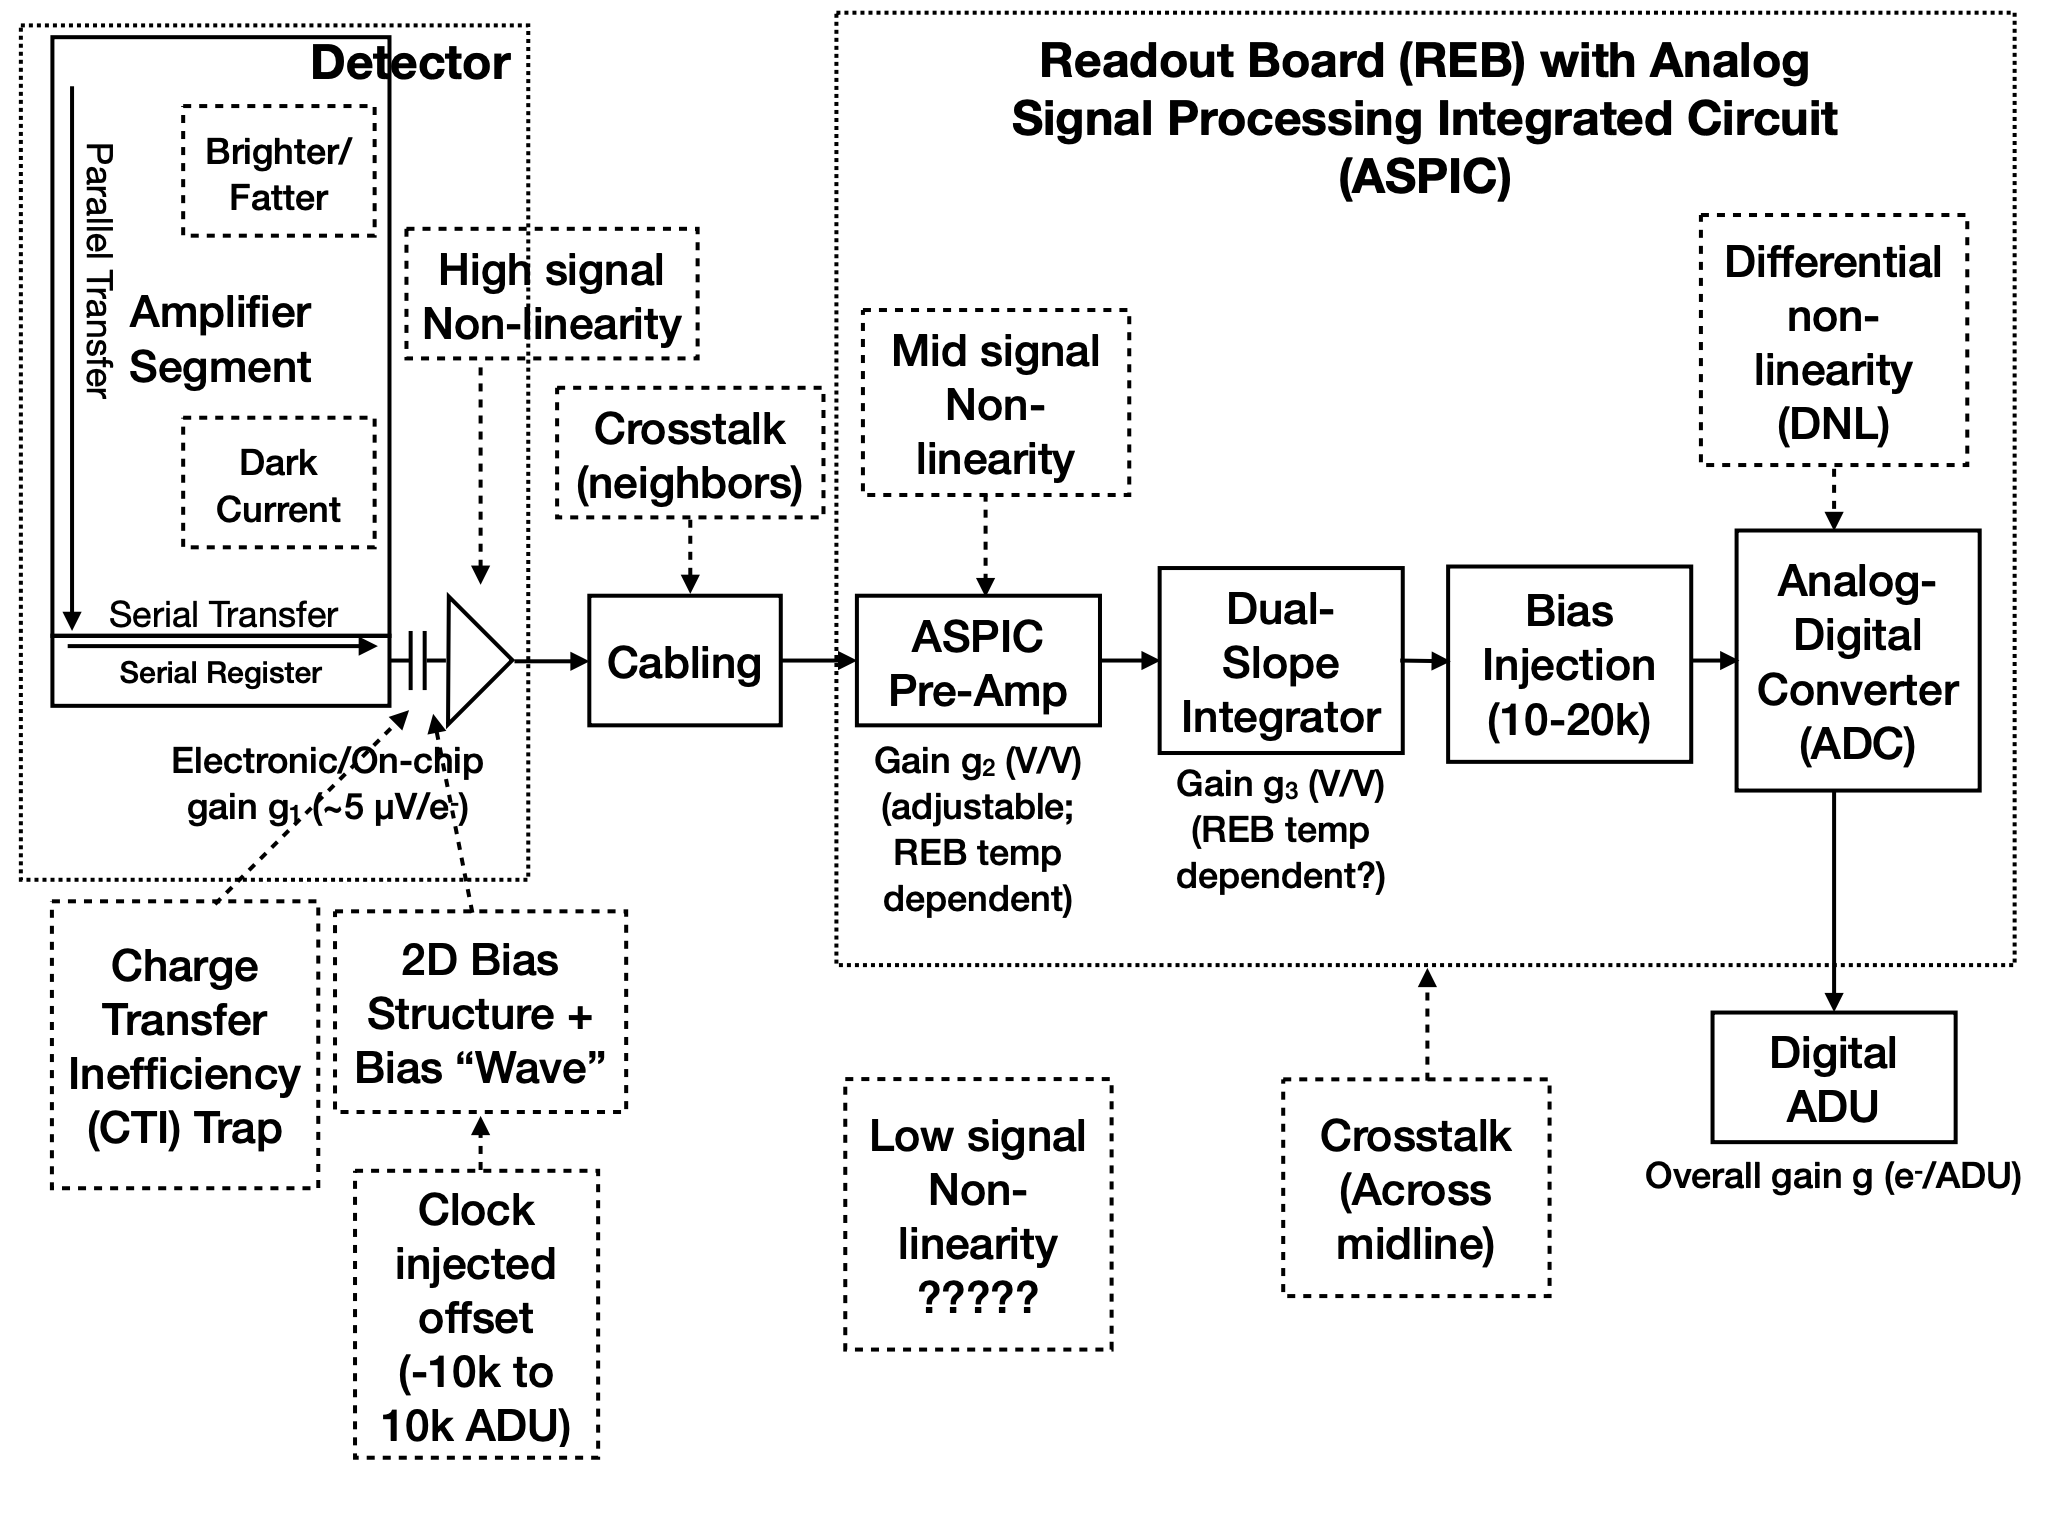
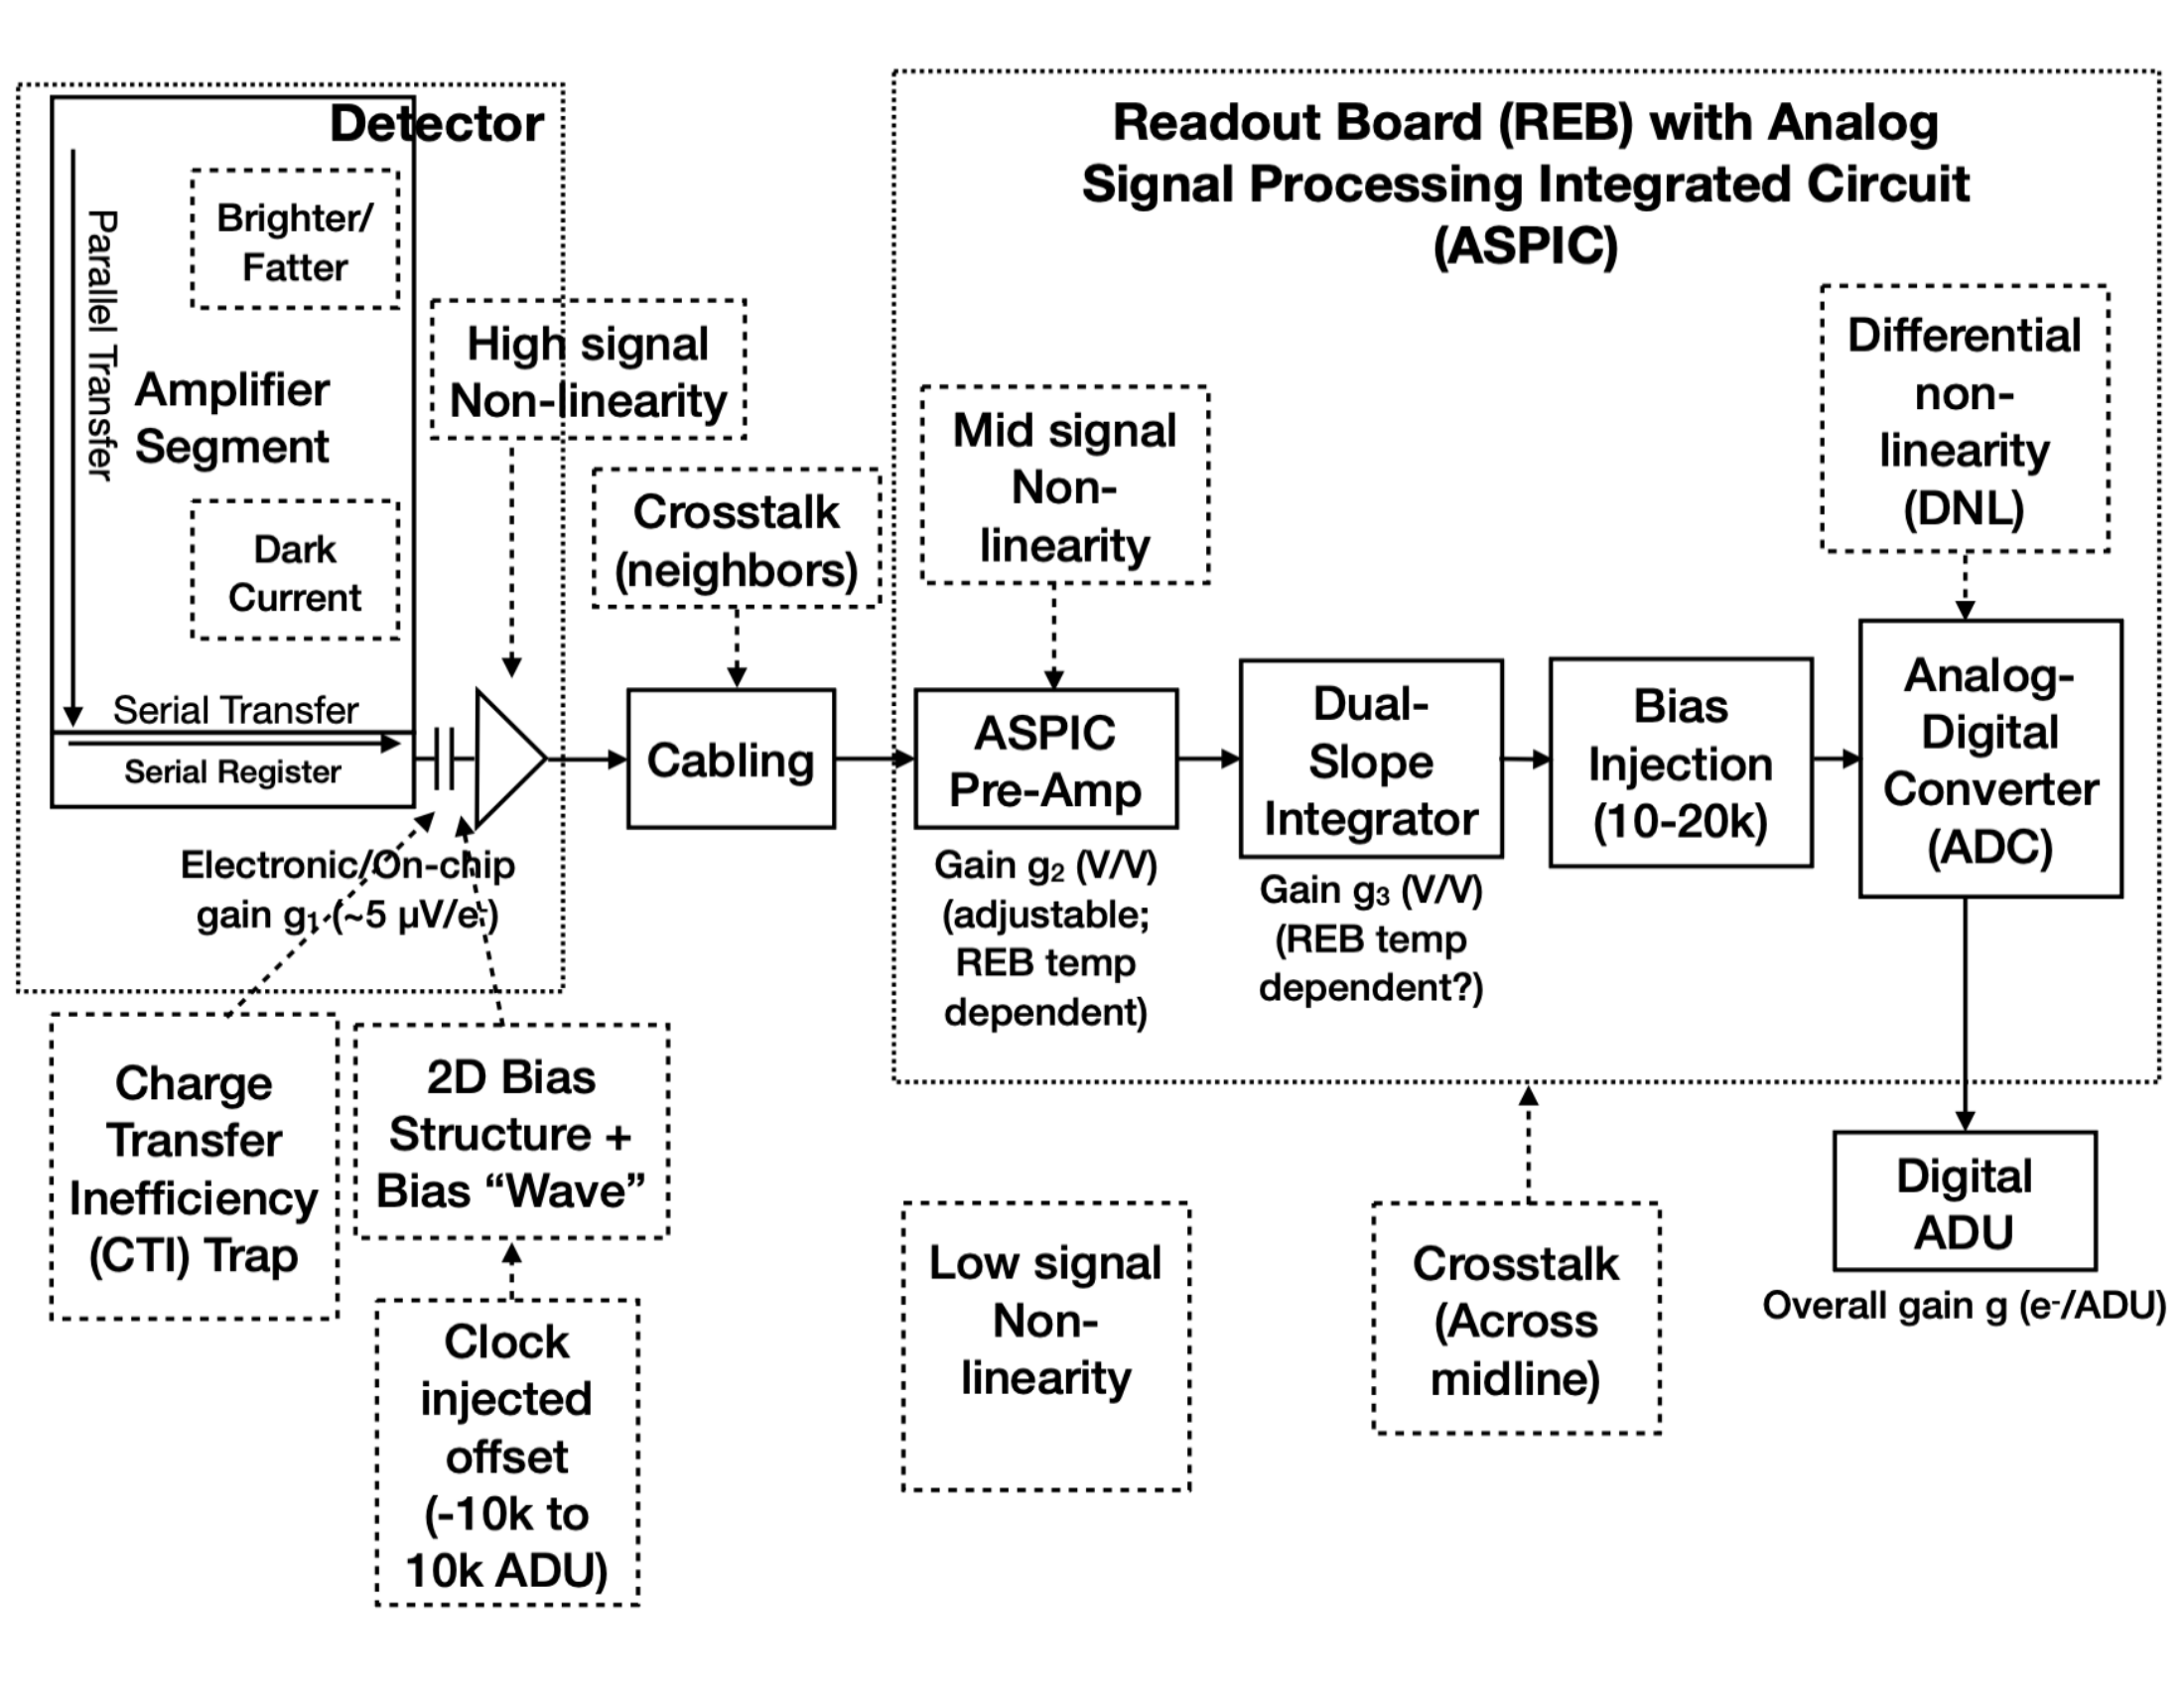
Update processing-isr page

diff --git a/docs/processing/isr/index.rst b/docs/processing/isr/index.rst
@@ -9,66 +9,74 @@ ISR is the first step of image processing, which removes instrumental effects in
 .. figure:: images/isr_model.png
     :width: 600
     :name: isr_model
-    :alt: A schematic diagram of a model with various detector signatures relevant for LSSTCam images.
+    :alt: A schematic diagram of the photon transfer and data-acquisition model with various detector signatures relevant for LSSTCam images.
 
-    Figure 1: The model of the detector and readout electronics board (REB) components, labeled with the effects that they impart on signal (from |dp1_paper|).
+    Figure 1: Photon transfer and data-acquisition model for the LSSTCam detectors and readout electronics board (REB), labeled with the instrumental effects (dashed boxes) and where each enters the chain. Low-signal non-linearities have been observed in the detector response, but their origin is not yet established, so that contribution appears as a disconnected box (from `RTN-117 <https://rtn-117.lsst.io/>`_).
 
 
 .. figure:: images/isr_steps.png
     :width: 600
     :name: isr_steps
-    :alt: A schematic diagram with Instrument Signature Removal steps relevant for LSSTCam images.
+    :alt: A schematic diagram with the sequence of Instrument Signature Removal steps applied to LSSTCam science images.
 
-    Figure 2: Instrument Signature Removal steps derived from the detector model in Figure 1 (from `Plazas Malagón et al. 2025 <https://ui.adsabs.harvard.edu/abs/2025JATIS..11a1209P/abstract>`_).
+    Figure 2: Outline of the Instrument Signature Removal pipeline applied to LSSTCam science images for DP2, derived from the detector model in Figure 1. Blue boxes denote static steps that apply pre-computed calibration inputs; orange boxes denote steps whose application depends on the science exposure itself; white boxes mark the raw input and post-ISR output; and the dashed box is an optional step (from `RTN-117 <https://rtn-117.lsst.io/>`_).
 
 
 
 Components
 ==========
 
-The steps of ISR include (from `Plazas Malagón et al. 2025 <https://ui.adsabs.harvard.edu/abs/2025JATIS..11a1209P/abstract>`_):
+The steps of ISR, in the order they are applied to DP2 science images, include (from `RTN-117 <https://rtn-117.lsst.io/>`_; see also `Plazas Malagón et al. 2025 <https://ui.adsabs.harvard.edu/abs/2025JATIS..11a1209P/abstract>`_):
 
-**Dithering of digitized counts**: applies a small random offset in the range [−0.5, 0.5) analog-to-digital units (ADU) to mitigate quantization bias introduced by analog-to-digital conversion.
+**Conversion from integer to float**: promotes the raw integer pixel values to floating-point precision before any corrections are applied.
 
-**Serial overscan subtraction**: removes row-wise electronic bias using the serial overscan region, typically via a per-row median excluding the initial columns affected by deferred charge.
+**Dithering of digitized counts**: adds a uniform random offset in the range [−0.5, 0.5) analog-to-digital units (ADU) to every pixel to mitigate quantization bias introduced by analog-to-digital conversion.
 
-**Masking of saturated and suspect pixels**: flags pixels that exceed defined saturation levels or exhibit anomalies, ensuring they are excluded from subsequent calibration steps.
+**Serial overscan subtraction**: removes the electronic, clock-injected offset and smaller row-to-row variations using the serial overscan region, while the data are still in ADU.
 
-**Gain scaling**: converts pixel values from ADU to electrons using temperature-corrected gain factors derived from photon transfer curve (PTC) measurements.
+**Masking of saturated and suspect pixels**: flags pixels above the saturation threshold, derived from the photon transfer curve (PTC) turnoff, in the pixel mask before further corrections, preventing corrupted values from biasing downstream estimates.
 
-**Correction of crosstalk in parallel overscan**: removes signal leakage from high-charge pixels into the parallel overscan regions of other amplifiers before performing the overscan subtraction.
+**Gain scaling**: converts pixel values from ADU to electrons using per-amplifier gains derived from the PTC.
 
-**Parallel overscan subtraction**: subtracts column-wise bias using the parallel overscan region, after crosstalk and saturation artifacts have been corrected.
+**Crosstalk correction**: removes electrical coupling between amplifier outputs using a pre-measured crosstalk matrix, applied in electron units consistent with how the matrix was measured.
 
-**Correction of crosstalk between amplifiers**: removes crosstalk between amplifier channels using a pre-measured crosstalk matrix, correcting both intra- and inter-CCD effects.
+**Parallel overscan subtraction**: subtracts a column-wise estimate of the readout offset using the parallel overscan region; it follows crosstalk correction because amplifier coupling can inject signal into the overscan regions.
 
-**Linearity correction**: corrects for non-linear detector response at medium and high signal levels.
+**Non-linearity correction**: corrects the non-linear detector response using a double-spline linearizer that maps measured counts to linearized electron counts.
 
-**Serial charge transfer inefficiency (CTI) correction**: removes trailing charge artifacts from incomplete charge transfer in the serial register using a flux- and position-dependent correction model.
+**Deferred charge (CTI) correction**: removes residual charge left in pixels during serial readout, arising from global charge transfer inefficiency (CTI), local electronic offsets in the output amplifier, and serial charge traps on ITL sensors; E2V sensors are not corrected because their deferred charge is already below requirements.
 
-**Image assembly and trimming**: combines the 16 amplifier segments into a single CCD image and trims the overscan regions.
+**E2V edge-bleed masking**: flags pixels in E2V amplifiers affected by uncorrectable charge spill from bright regions at the serial-register edge.
 
-**Bias subtraction**: subtracts a combined bias frame created from multiple zero-time exposure images, correcting for static readout structure and electronic offsets.
+**ITL dip, SatSag, and edge-bleed masking**: flags ITL-specific artifacts — a column response depression near certain amplifier boundaries (the "ITL dip"), a sag in apparent signal after saturation ("SatSag"), and edge bleeding analogous to the E2V case.
 
-**Dark subtraction**: removes the thermal dark current and any residual bias structure using a combined dark frame measured with closed-shutter exposures.
+**Bias subtraction**: subtracts a combined bias frame created from multiple zero-time exposures, removing the fixed-pattern electronic offset that remains after overscan subtraction.
 
-**Brighter-fatter correction**: corrects for the "brighter-fatter" effect (where brighter sources appear larger due to electrostatic interactions in the detector) using a convolution kernel calibrated from flat-field pixel correlations.
+**Dark subtraction**: subtracts the combined dark frame, scaled by the science exposure time, removing the thermal dark current accumulated during the exposure.
 
-**Defect masking and interpolation**: flags and interpolates over known bad pixels or columns identified from flat and dark exposures as statistical outliers.
+**Defect masking**: merges persistent bad pixels, columns, and other static defects identified during calibration into the pixel mask.
 
-**Variance plane construction**: computes the variance per pixel from the Poisson noise and read noise, creating a map for uncertainty propagation in later processing.
+**Widening of saturation footprints**: expands the saturation mask to include neighboring pixels affected by charge spill and trails from saturated sources.
 
-**Flat fielding**: applies a background and reference flat to convert images to fluence units (e−/pixel), correcting for illumination non-uniformities.
+**Brighter-fatter correction**: redistributes flux among neighboring pixels to undo the electrostatic "brighter-fatter" effect (where brighter sources appear larger), using a kernel calibrated from flat-field pixel correlations.
+
+**Variance plane estimation**: assigns an expected variance to each pixel from the Poisson noise and the PTC-derived read noise, creating a map for uncertainty propagation in later processing.
+
+**Flat fielding**: divides the image by the normalized flat field to correct pixel-to-pixel variations in quantum efficiency and optical throughput.
+
+**Interpolation over masked pixels**: fills saturated and bad pixels with values interpolated from neighboring unmasked pixels, so that downstream algorithms that assume a continuous image operate on calibrated flux units.
+
+**Amplifier offset correction (optional)**: applies small per-amplifier adjustments derived from flat-field residuals to reduce remaining flux discontinuities at amplifier boundaries.
 
 
 Overview
 ========
 
 Each sensor and its readout amplifiers can vary slightly in performance, causing images of even a uniformly illuminated focal plane to exhibit discontinuities and shifts due to detector effects.
-Figure 1 illustrates the model of detector components and their impact on the signal, tracing the process from photons incident on the detector surface to the final quantized values recorded in the image files.
+Figure 1 illustrates the photon transfer and data-acquisition model of the detector components and their impact on the signal, tracing the process from photons incident on the detector surface to the final quantized values recorded in the image files.
 Based on this model, a series of Instrument Signature Removal steps are implemented to eliminate camera-induced effects (Figure 2).
 
-The ISR pipeline essentially “works backward” through the signal chain, correcting the integer analog-to-digital units (ADU) raw camera output back to a floating-point number of photoelectrons created in the silicon.
+The ISR pipeline essentially "works backward" through the signal chain, applying corrections in reverse chronological order relative to the photon transfer chain and converting the integer analog-to-digital units (ADU) of the raw camera output back to a floating-point number of photoelectrons created in the silicon.
 The physical detector, shown on the left in Figure 1, is the source of effects that arise from the silicon itself, such as the dark current and the brighter-fatter effect (`Broughton et al. 2024 <https://ui.adsabs.harvard.edu/abs/2024PASP..136d5003B/abstract>`_, `Gruen et al. 2015 <https://ui.adsabs.harvard.edu/abs/2015JInst..10C5032G/abstract>`_).
 
 After the image has integrated, the charge is shifted to the serial register and read out, which can introduce charge transfer inefficiencies and a clock-injected offset level.
@@ -76,12 +84,11 @@ The signals for all amplifiers are transferred via cables to the Readout Electro
 The Analog Signal Processing Integrated Circuit (ASPIC) on the REB converts the analog signal from the detector into a digital signal, adding both quantization and a bias level to the image.
 Although the signal chain is designed to be stable and linear, the presence of numerous sources of non-linearity reveals its complexity.
 
-Following this model, the sequence of ISR corrections is structured to reverse the detector and electronics effects in the order opposite to their introduction.
-For example, quantization artifacts are addressed first through dithering and differential non-linearity correction, followed by serial overscan subtraction, saturation masking, and gain normalization.
-Crosstalk is then corrected to prevent its contamination of later steps like parallel overscan subtraction and linearity correction.
-CTI is corrected next, just before assembling the amplifier segments into full CCD images.
-The final steps include bias and dark subtraction, brighter-fatter effect correction, defect masking, variance plane construction, and flat-fielding.
-Each of these steps is tied to specific elements in the detector readout chain, and their ordering ensures that each correction builds upon a cleaner, more physically meaningful image (`Plazas Malagón et al., 2025 <https://ui.adsabs.harvard.edu/abs/2025JATIS..11a1209P/abstract>`_).
+Because effects are undone in the opposite order to which they were imprinted, steps that undo readout-electronics effects appear before steps that undo detector-level effects, and additive corrections precede multiplicative ones such as flat-fielding.
+Quantization is addressed first through count dithering, followed by serial overscan subtraction, saturation masking, and gain conversion to electrons.
+Crosstalk is then corrected to prevent its contamination of later steps like parallel overscan subtraction and non-linearity correction, and deferred charge (CTI) is corrected next, followed by vendor-specific masks for artifacts such as edge bleeds and the ITL dip.
+The final steps include bias and dark subtraction, defect masking, brighter-fatter correction, variance plane construction, flat-fielding, and interpolation over masked pixels.
+Each of these steps is tied to specific elements in the detector readout chain; running the pipeline with misplaced steps would either apply a correction in the wrong physical units or leave residual structure that invalidates downstream calibrations (`RTN-117 <https://rtn-117.lsst.io/>`_, `Plazas Malagón et al. 2025 <https://ui.adsabs.harvard.edu/abs/2025JATIS..11a1209P/abstract>`_).
 
 
 Subtleties
@@ -91,7 +98,7 @@ Amplifier offsets
 -----------------
 
 Through much of DP2 processing, there were amplifier offsets that propagated through to photometry and PSF residuals.
-The "amp offset correction" code was enabled to mitigate this issue.
+The optional "amp offset correction" step, which applies small pre-computed per-amplifier adjustments derived from flat-field residuals, was enabled to mitigate this issue.
 While this correction is not fully principled, it appears to work on average with no evidence of pathological behavior so far.
 
 Camera sequencer changes
@@ -113,9 +120,29 @@ Flat fielding
 
 The flat-field screen is not uniformly illuminated, nor does it uniformly fill the focal plane.
 For each filter except u, two "anaglyph" flats are taken (one with a bluer LED and one with a redder LED), with special gradient-removal code to correct for gradients and centering.
-This correction does not work well in the outer partly vignetted region of the focal plane.
+This correction does not work well in the outer partly vignetted region of the focal plane, and improved vignetting models are planned for future calibration epochs to reduce focal-plane non-uniformity.
 
 Camera temperature variations (particularly during the second calibration epoch) and focal plane restarts also changed gains slightly, resulting in additional amplifier offsets.
+
+Low-signal non-linearity
+------------------------
+
+The DP2 linearizer corrects the average amplifier non-linearity but does not yet apply a full low-signal differential non-linearity (DNL) correction, reflecting the difficulty of delivering flat-field illumination below 100 ADU/pixel with the in-dome calibration system.
+Count dithering in ISR provides interim mitigation, but users should exercise caution when relying on photometric or astrometric measurements at low signal levels, in particular u-band sky-background estimates, where backgrounds are typically at or below 100 ADU/pixel.
+In addition, small quasi-oscillatory residuals ("wiggles") remain as a function of signal level after the non-linearity correction; these are well below current science requirements and are left uncorrected in DP2.
+
+Brighter-fatter color dependence
+--------------------------------
+
+The brighter-fatter effect is color dependent because its amplitude depends on the photon conversion depth in the silicon.
+The correction used in DP2 applies a single wavelength-averaged kernel per detector, derived in the band of the PTC input flats; color-corrected calibrations, appropriate in particular for the z and y bands, were not enabled in DP2 and are expected for DR1.
+Until then, PSF photometry and shape measurements of bright sources, especially in redder bands, may retain small flux- and filter-dependent biases.
+
+Fringing
+--------
+
+Fringing, an interference pattern driven primarily by night-sky emission lines in the z and y bands, is not fully canceled by flat-fielding, and the DP2 ISR pipeline does not include a dedicated fringe-subtraction step.
+Residual fringe structure is visible at low surface brightness in z- and y-band visit images and can bias wide-aperture photometry; fringe corrections are under development and expected for DR1.
 
 
 Additional resources
@@ -123,6 +150,7 @@ Additional resources
 
 For descriptions of the ISR steps and the generation, verification, certification, approval, and distribution of the calibration products necessary for ISR, refer to the following:
 
+* "Image Calibration and Instrument Signal Removal for the First Year of the LSST" (`RTN-117 <https://rtn-117.lsst.io/>`_)
 * `Instrument Signature Removal and Calibration Products for the Rubin Legacy Survey of Space and Time <https://ui.adsabs.harvard.edu/abs/2025JATIS..11a1209P/abstract>`_
 * "Rubin Baseline Calibration Plan" (`SITCOMTN-086 <https://sitcomtn-086.lsst.io/>`_)
 * "Verifying LSST Calibration Data Products" (`DMTN-101 <https://dmtn-101.lsst.io/>`_)